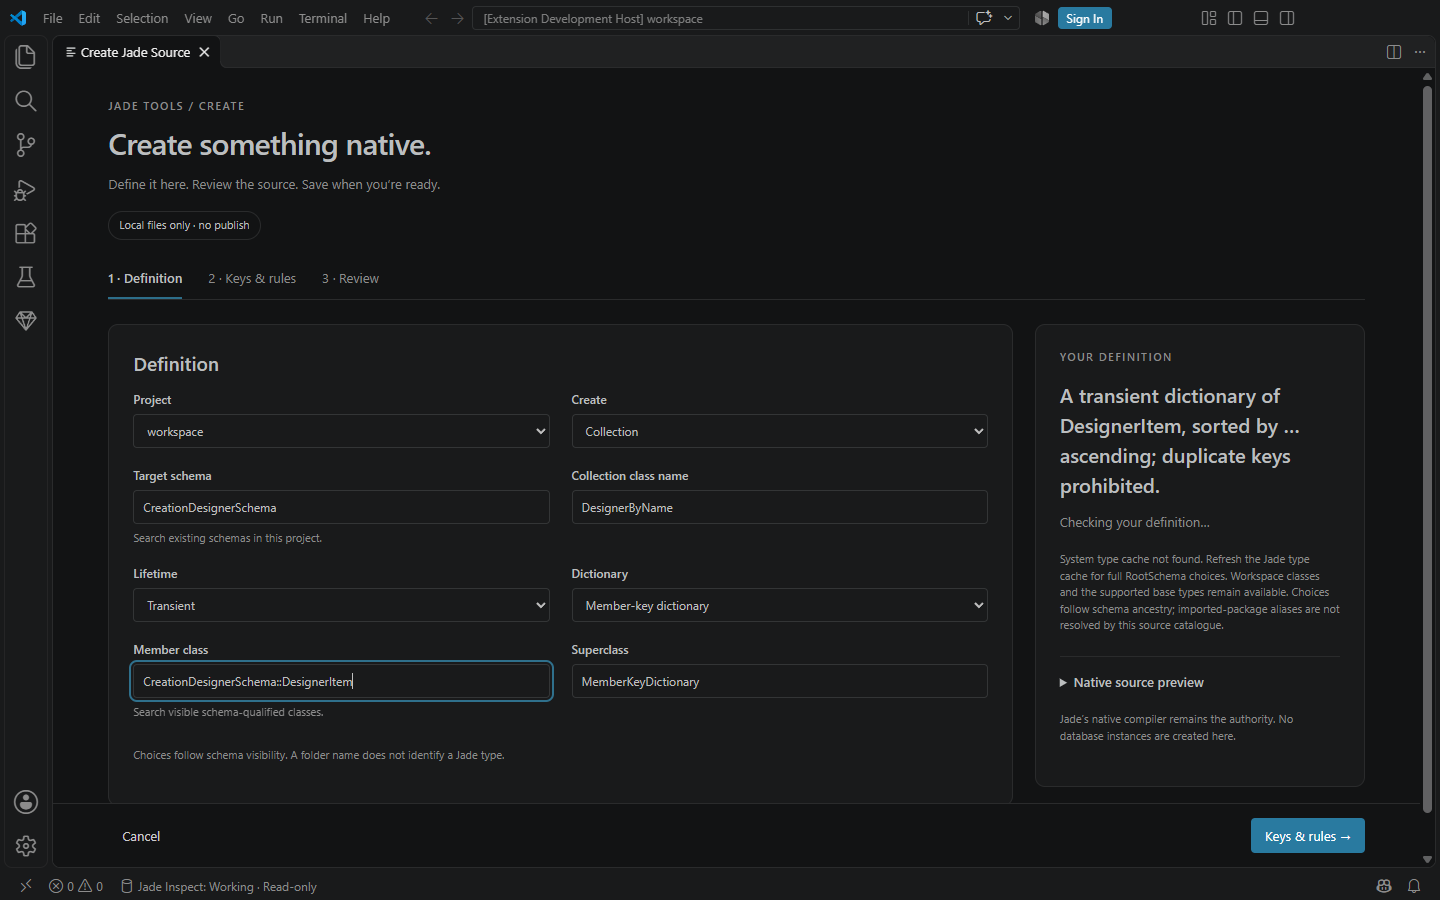
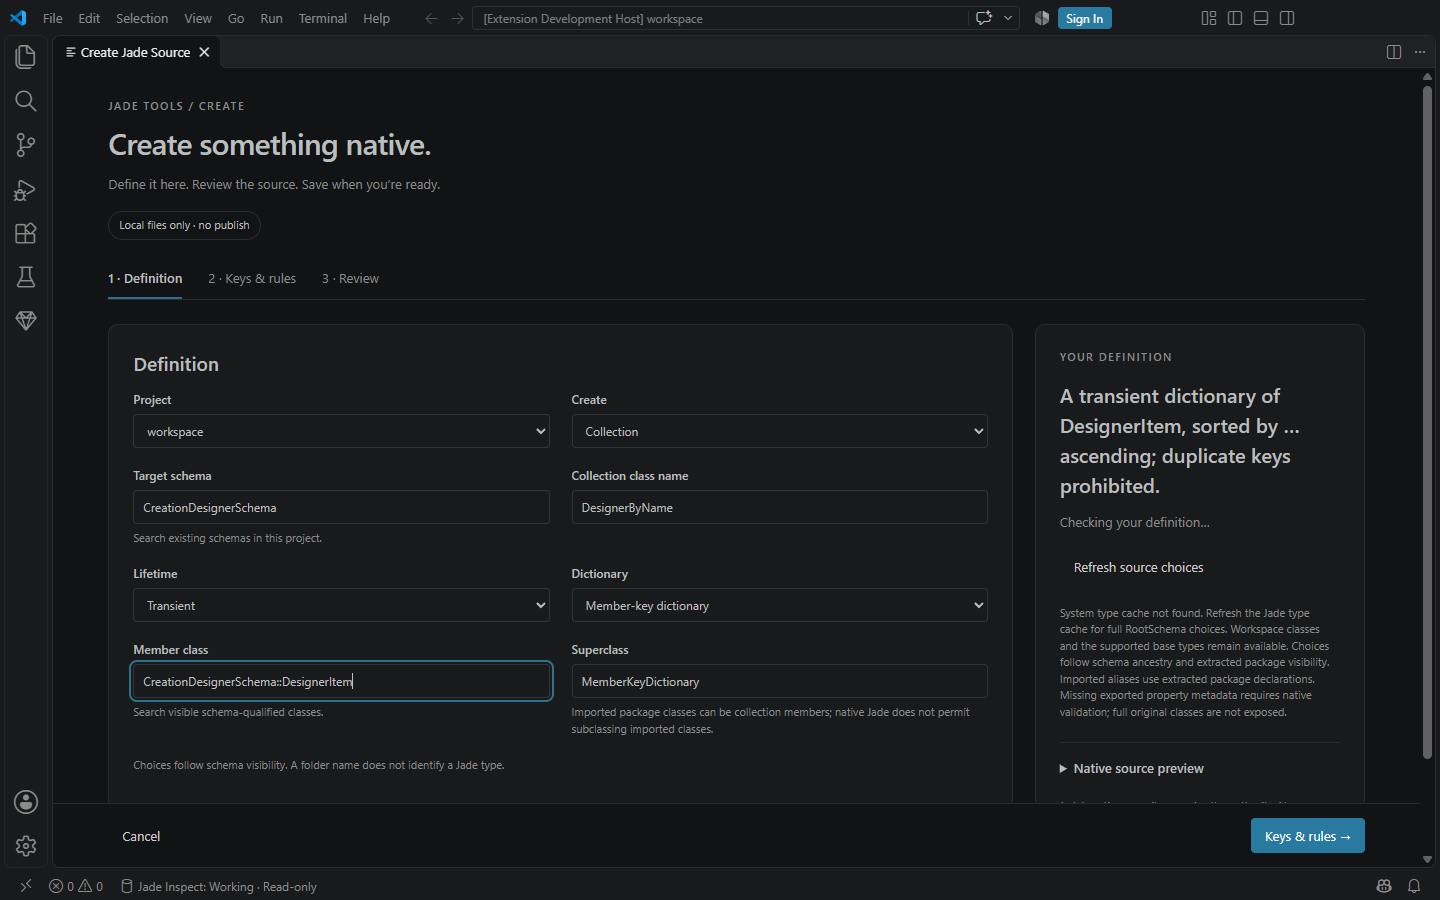
test: prove imported collection creation in native Jade and VS Code

diff --git a/tests/creation-integration/creation-integration_imports_native_tests.test.js b/tests/creation-integration/creation-integration_imports_native_tests.test.js
@@ -1,0 +1,93 @@
+'use strict';
+const test=require('node:test'),assert=require('node:assert/strict'),fs=require('node:fs'),path=require('node:path'),crypto=require('node:crypto');
+const {HostTestArtifacts}=require('../../scripts/HostTestArtifacts.cjs');
+const {createCreationModel}=require('../../extension/src/creation-model');
+const {writeCreation}=require('../../extension/src/creation-files');
+const {scanProject}=require('../../extension/src/native-project');
+const {service}=require('../../test/cli-integration-fixture');
+// Grammar comes from Jade Software's published package extracts. The opt-in
+// run verifies it on the installed native runtime and retains fresh extracts.
+test('native packages preserve alias identity, exported properties and inherited import visibility',{skip:process.env.JADE_CREATION_NATIVE!=='1',timeout:600000},async()=>{
+ const source=process.env.JADE_CREATION_NATIVE_SOURCE,ini=process.env.JADE_CREATION_NATIVE_INI;assert.ok(source&&ini,'Explicit Source backup paths required; this proof never publishes.');
+ const base=path.resolve(__dirname,'../..'),artifacts=new HostTestArtifacts({evidencePath:path.join(base,'evidence/creation-imports-native.json')});
+ await artifacts.run(async stage=>{
+  const root=path.join(stage,'workspace');fs.mkdirSync(root);const runtime=path.join(stage,'extension/vendor/jade-tools-cli');fs.mkdirSync(path.dirname(runtime),{recursive:true});fs.cpSync(process.env.JADE_CREATION_NATIVE_CLI_DIST||path.join(base,'extension/vendor/jade-tools-cli'),runtime,{recursive:true});const entry=path.join(runtime,'jade-cli.exe');const manifest=JSON.parse(fs.readFileSync(path.join(runtime,'distribution.json'),'utf8'));assert.equal(manifest.runtime,'native-cpp');assert.equal(manifest.executableSha256,crypto.createHash('sha256').update(fs.readFileSync(entry)).digest('hex'));artifacts.nativeSha256=crypto.createHash('sha256').update(fs.readFileSync(entry)).digest('hex');
+  const suffix=Date.now().toString(36),exporterA='ImportExporterA'+suffix,exporterB='ImportExporterB'+suffix,consumer='ImportConsumer'+suffix,child='ImportChild'+suffix,probe='ImportProbe'+suffix,importOnly='ImportOnly'+suffix;
+  const folder=name=>path.join(root,'schemas',name),types=name=>path.join(folder(name),'types'),head=name=>`jadeVersionNumber "25.0.02";\nschemaDefinition\n${name} subschemaOf ${name===child?consumer:'RootSchema'} partialDefinition;\n`;
+  const cls=(schema,name,parent,definition='',sources='',membership='',keys='')=>head(schema)+`typeHeaders\n\t${name} subclassOf ${parent} transient;\n`+(membership?`membershipDefinitions\n\t${name} of ${membership};\n`:'')+`typeDefinitions\n\t${name} completeDefinition\n\t(\n${definition}\n\t)\n`+(keys?`memberKeyDefinitions\n\t${name} completeDefinition\n\t(\n\t ${keys};\n\t)\n`:'')+`databaseDefinitions\ntypeSources\n`+sources;
+  const put=(schema,name,text)=>{const file=path.join(types(schema),name+'.cls');fs.writeFileSync(file,text);return file;};
+  for(const name of [exporterA,exporterB,consumer,child,probe,importOnly]){const model=createCreationModel(await scanProject(root));writeCreation(root,model.preview({type:'schema',name,parent:name===child?consumer:'RootSchema',version:'25.0.02'}));}
+  for(const schema of [exporterA,exporterB,consumer,child,probe,importOnly]){
+   const packageApp=[exporterA,exporterB].includes(schema)?'<JadeExportedPackage name="SharedTools"><application name="'+schema+'" /></JadeExportedPackage>':'';
+   fs.writeFileSync(path.join(folder(schema),'applications',schema+'.ddx'),'<?xml version="1.0" encoding="UTF-8"?>\r\n<schema name="'+schema+'" JadeVersionNumber="25.0.02" CompleteDefinition="true">\r\n<Application name="'+schema+'"><applicationType>G</applicationType><defaultApp>true</defaultApp><name>'+schema+'</name></Application>'+packageApp+'</schema>\r\n');
+  }
+  for(const schema of [exporterA,exporterB]){
+   put(schema,'Thing',cls(schema,'Thing','Object','attributeDefinitions\n name: String[50];\n secret: String[50];'));
+   const packages=path.join(folder(schema),'packages');fs.mkdirSync(packages);
+   fs.writeFileSync(path.join(packages,'exportedPackageDefinitions.sec'),'exportedPackageDefinitions\n\tSharedTools\n\t(\n\texportedClassDefinitions\n\t\tThing transientAllowed, transient\n\t\t(\n\t\texportedPropertyDefinitions\n\t\t\tname;\n\t\t)\n\t)\n');
+  }
+  fs.mkdirSync(path.join(folder(consumer),'packages'));
+  fs.writeFileSync(path.join(folder(consumer),'packages/importedPackageDefinitions.sec'),`importedPackageDefinitions\n\tCatalogA is ${exporterA}::SharedTools\n\t(\n\timportedClassDefinitions\n\t\tThing\n\t)\n\tCatalogB is ${exporterB}::SharedTools\n\t(\n\timportedClassDefinitions\n\t\tThing\n\t)\n`);
+  fs.mkdirSync(path.join(folder(importOnly),'packages'));fs.writeFileSync(path.join(folder(importOnly),'packages/importedPackageDefinitions.sec'),`importedPackageDefinitions\n\tOnlyPackage is ${exporterA}::SharedTools\n\t(\n\timportedClassDefinitions\n\t\tThing\n\t)\n`);
+  put(consumer,'Thing',cls(consumer,'Thing','Object','attributeDefinitions\n name: String[50];\n localOnly: Integer;'));
+  put(consumer,'LocalThingChild',cls(consumer,'LocalThingChild','Thing'));
+  const creation=createCreationModel(await scanProject(root));for(const [schema,name,alias]of [[consumer,'ImportedByName','CatalogA'],[consumer,'OtherImportedByName','CatalogB'],[child,'ChildImportedByName','CatalogA']]){const membership=consumer+'::'+alias+'::Thing';assert.deepEqual(creation.keyChoices({schema,membership}).items.map(property=>property.name),['name']);writeCreation(root,creation.preview({type:'collection',schema,name,kind:'member',membership,lifetime:'transient',keys:[{name:'name'}]}));}
+  const inheritedBody=`inheritedAlias() unitTest;
+vars
+ value: CatalogA::Thing;
+ dictionary: ChildImportedByName;
+begin
+ create value transient; create dictionary transient;
+ value.name := "inherited alias"; dictionary.add(value);
+ assertEquals(value,dictionary.getAtKey("inherited alias"));
+epilog
+ delete dictionary; delete value;
+end;`;
+  const childProgram=put(child,'InheritedPackageTests',cls(child,'InheritedPackageTests','JadeTestCase','jadeMethodDefinitions\n inheritedAlias() unitTest;',`InheritedPackageTests (\njadeMethodSources\ninheritedAlias\n{\n${inheritedBody}\n}\n)\n`));
+  const body=`packageAliases() unitTest;
+vars
+ a: CatalogA::Thing;
+ b: CatalogB::Thing;
+ local: Thing;
+ localChild: LocalThingChild;
+ first: ImportedByName;
+ second: OtherImportedByName;
+begin
+ create a transient; create b transient; create local transient; create localChild transient;
+ create first transient; create second transient;
+ a.name := "from A"; b.name := "from B"; local.name := "local"; local.localOnly := 42;
+ first.add(a); second.add(b);
+ assertEquals(a,first.getAtKey("from A")); assertEquals(b,second.getAtKey("from B"));
+ assertEquals("from A",a.name); assertEquals("from B",b.name); assertEquals(42,local.localOnly);
+epilog
+ delete second; delete first; delete localChild; delete local; delete b; delete a;
+end;`;
+  const program=put(consumer,'ImportedCollectionTests',cls(consumer,'ImportedCollectionTests','JadeTestCase','jadeMethodDefinitions\n packageAliases() unitTest;',`ImportedCollectionTests (\njadeMethodSources\npackageAliases\n{\n${body}\n}\n)\n`));
+  const inputSnapshot=new Map();function snapshot(dir){for(const item of fs.readdirSync(dir,{withFileTypes:true})){const file=path.join(dir,item.name);if(item.isDirectory())snapshot(file);else inputSnapshot.set(file,fs.readFileSync(file));}}snapshot(root);const project=await scanProject(root),config={installPath:process.env.JADE_CREATION_NATIVE_INSTALL||'C:/Jade2025',databasePath:source,iniPath:ini,server:'singleUser',workspaceRoots:[root],storagePath:path.join(stage,'state'),schema:consumer,program,files:project.schemas.flatMap(s=>s.classes.map(c=>c.file)),classFile:true,sourceProperties:true,methods:['packageAliases'],testDependencyScope:'static',timeoutMilliseconds:120000},client=service(entry,path.join(stage,'broker')),proof={cliVersion:manifest.packageVersion,cliSha256:artifacts.nativeSha256,candidateDistribution:process.env.JADE_CREATION_NATIVE_CLI_DIST||null,packageSecNewlines:'LF',jadeVersion:'25.0.02',sourcePublished:false,schemas:{exporterA,exporterB,consumer,child},results:[]};
+  const record=(name,result)=>{proof.results.push({name,...result});fs.writeFileSync(path.join(stage,'host-report.json'),JSON.stringify(proof,null,2));console.log(name+': '+result.code+' '+result.passed);};
+  try{
+   const delayed=[path.join(types(consumer),'ImportedByName.cls'),path.join(types(consumer),'OtherImportedByName.cls'),path.join(types(consumer),'ImportedCollectionTests.cls'),path.join(types(child),'ChildImportedByName.cls'),childProgram].map(file=>({file,text:fs.readFileSync(file,'utf8')}));for(const value of delayed)fs.unlinkSync(value.file);
+   const baselineProject=await scanProject(root),baseline=await client.request('build',{...config,program:path.join(types(consumer),'Thing.cls'),files:baselineProject.schemas.flatMap(s=>s.classes.map(c=>c.file)),projectBuild:true});record('native-package-baseline',baseline);assert.equal(baseline.passed,true,JSON.stringify(baseline));
+   const baselineTarget=(await client.request('working.location',config)).working;await client.request('disconnect',{});const baselineEvidence=path.join(base,'evidence/import-native');fs.mkdirSync(baselineEvidence,{recursive:true});
+   const assembled=[];function inspectAssembly(directory){if(!fs.existsSync(directory))return;for(const entry of fs.readdirSync(directory,{withFileTypes:true})){const file=path.join(directory,entry.name);if(entry.isDirectory())inspectAssembly(file);else if(/\.(scm|ddx)$/i.test(file)&&fs.statSync(file).size<131072)assembled.push({file:path.relative(baselineTarget.assemblyRoot,file),text:require('../../extension/src/native-project').decode(fs.readFileSync(file))});}}inspectAssembly(baselineTarget.assemblyRoot);fs.writeFileSync(path.join(baselineEvidence,'assembled.json'),JSON.stringify(assembled,null,2));
+   const packageMeta=await client.request('workspace.run',{...config,schema:probe,application:probe,program:path.join(types(consumer),'Thing.cls'),files:baselineProject.schemas.flatMap(s=>s.classes.map(c=>c.file))},{source:path.join(root,'package-metadata.jade'),sourceText:`vars\n provider:Schema; packages:Object; package:Object; application:Object; applications:Object;\nbegin\n provider := rootSchema.getSchema("${exporterA}");\n write provider.getName();\n packages := provider.getPropertyValue("exportedPackages").Object;\n package := packages.sendMsg("first").Object;\n write package.getPropertyValue("name");\n application := package.getPropertyValue("application").Object;\n write application = null;\n if application <> null then write application.getPropertyValue("name"); endif;\n applications := provider.getPropertyValue("_applications").Object;\n write applications.sendMsg("size");\n write provider.getLocalPackage("SharedTools") = package;\nend;`});record('native-package-application-metadata',packageMeta);assert.equal(packageMeta.passed,true);assert.ok(packageMeta.report.output.includes('\nfalse\n'+exporterA+'\n1\n'),'Native package application association required');await client.request('disconnect',{});
+   for(const name of [exporterA,exporterB,consumer]){const destination=path.join(stage,'baseline-'+name);fs.mkdirSync(destination);const extracted=await client.request('native.run',{...config,databasePath:baselineTarget.databasePath,iniPath:baselineTarget.iniPath},{executable:path.join(config.installPath,'bin/jadclient.exe'),args:['path='+baselineTarget.databasePath,'ini='+baselineTarget.iniPath,'server=singleUser','schema=JadeSchema','app=JadeBatchExtract','startAppParameters','Single',path.join(destination,'schema.scm'),path.join(destination,'schema.ddx'),name,'<utf8Encoding>'],options:{timeoutMilliseconds:60000,cwd:stage}});record(name+'-baseline-extract',extracted);if(extracted.passed){fs.copyFileSync(path.join(destination,'schema.scm'),path.join(baselineEvidence,name+'-baseline.scm'));if(fs.existsSync(path.join(destination,'schema.ddx')))fs.copyFileSync(path.join(destination,'schema.ddx'),path.join(baselineEvidence,name+'-baseline.ddx'));}}
+   for(const value of delayed)fs.writeFileSync(value.file,value.text);
+   const built=await client.request('build',{...config,projectBuild:true});record('native-package-source',built);assert.equal(built.passed,true,JSON.stringify(built));
+   const ran=await client.request('test',config);if(ran.report?.logFile&&fs.existsSync(ran.report.logFile))proof.nativeTestLog=require('../../extension/src/native-project').decode(fs.readFileSync(ran.report.logFile)).slice(-32000);record('native-package-alias-runtime',ran);assert.equal(ran.passed,true,JSON.stringify(ran));assert.equal(ran.report.tests_completed,true);
+   const inherited=await client.request('test',{...config,schema:child,program:childProgram,methods:['inheritedAlias']});record('native-inherited-alias-runtime',inherited);assert.equal(inherited.passed,true,JSON.stringify(inherited));assert.equal(inherited.report.tests_completed,true);
+   for(const negative of [{schema:importOnly,name:'ImportedSubclass',text:cls(importOnly,'ImportedSubclass','Thing')},{schema:consumer,name:'HiddenImportedProperty',text:cls(consumer,'HiddenImportedProperty','Object','jadeMethodDefinitions\n hidden() : String;',`HiddenImportedProperty (\njadeMethodSources\nhidden\n{\nhidden() : String;\nvars\n value: CatalogA::Thing;\nbegin\n return value.secret;\nend;\n}\n)\n`)}]){
+    const file=put(negative.schema,negative.name,negative.text),rejected=await client.request('build',{...config,schema:negative.schema,program:file,projectBuild:true});record(negative.name,rejected);assert.equal(rejected.passed,false,JSON.stringify(rejected));assert.ok(rejected.report.diagnostics.some(d=>d.compiler_error===(negative.name==='ImportedSubclass'?6022:6026)),JSON.stringify(rejected));fs.unlinkSync(file);
+   }
+   const recovered=await client.request('build',{...config,projectBuild:true});assert.equal(recovered.passed,true,JSON.stringify(recovered));
+   const target=(await client.request('working.location',config)).working;await client.request('disconnect',{});
+   const evidence=path.join(base,'evidence/import-native');fs.mkdirSync(evidence,{recursive:true});
+   for(const name of [exporterA,exporterB,consumer,child,probe,importOnly]){
+    const destination=path.join(stage,'extract-'+name);fs.mkdirSync(destination);
+    const extracted=await client.request('native.run',{...config,databasePath:target.databasePath,iniPath:target.iniPath},{executable:path.join(config.installPath,'bin/jadclient.exe'),args:['path='+target.databasePath,'ini='+target.iniPath,'server=singleUser','schema=JadeSchema','app=JadeBatchExtract','startAppParameters','Single',path.join(destination,'schema.scm'),path.join(destination,'schema.ddx'),name,'<utf8Encoding>'],options:{timeoutMilliseconds:60000,cwd:stage}});
+    assert.equal(extracted.passed,true,JSON.stringify(extracted));fs.copyFileSync(path.join(destination,'schema.scm'),path.join(evidence,name+'.scm'));
+   }
+   for(const [file,bytes]of inputSnapshot)assert.deepEqual(fs.readFileSync(file),bytes,'Input preserved '+file);proof.inputBytesPreserved=true;proof.passed=true;proof.aliasesAndLocalSameName=true;proof.exportedPropertyKey=true;proof.inheritedImport=true;proof.inheritedAliasExecuted=true;proof.modelGeneratedImportedDictionaries=true;proof.importedSubclassRejected=true;proof.unexportedPropertyRejected=true;fs.writeFileSync(path.join(stage,'host-report.json'),JSON.stringify(proof,null,2));
+  }finally{try{await client.request('shutdown',{});}finally{await client.close();}}
+ });
+});

diff --git a/test/vscode-creation-smoke.js b/test/vscode-creation-smoke.js
@@ -8,6 +8,7 @@ async function run(){
   const file=path.join(root,'schemas/CreationDesignerSchema/types/DesignerItem.cls');
   fs.writeFileSync(file,'jadeVersionNumber "25.0.02";\nschemaDefinition\nCreationDesignerSchema subschemaOf RootSchema partialDefinition;\ntypeHeaders\nDesignerItem subclassOf Object transient;\ntypeDefinitions\nDesignerItem completeDefinition\n(\nattributeDefinitions\nname: String[50];\nrank: Integer;\n)\ntypeSources\n');
   for(let index=0;index<120;index++){const name='PagingItem'+String(index).padStart(3,'0');fs.writeFileSync(path.join(path.dirname(file),name+'.cls'),`jadeVersionNumber "25.0.02";\nschemaDefinition\nCreationDesignerSchema subschemaOf RootSchema partialDefinition;\ntypeHeaders\n${name} subclassOf Object transient;\ntypeDefinitions\n${name} completeDefinition\n(\n)\ntypeSources\n`);}
+  const importSchemas={};for(const fixture of ['ImportExporterA','ImportExporterB','ImportConsumer','ImportChild']){const text=fs.readFileSync(path.join(__dirname,'fixtures/creation-imports',fixture+'.scm'),'utf8'),name=/schemaDefinition\s+(\w+)\s+subschemaOf/.exec(text)[1];importSchemas[fixture]=name;fs.writeFileSync(path.join(root,'schemas',name+'.scm'),text);fs.mkdirSync(path.join(root,'schemas',name,'types'),{recursive:true});if(fixture!=='ImportChild'){const properties=fixture==='ImportConsumer'?'name: String[50];\nlocalOnly: Integer;':'name: String[50];\nsecret: String[50];';fs.writeFileSync(path.join(root,'schemas',name,'types/Thing.cls'),`jadeVersionNumber "25.0.02";\nschemaDefinition\n${name} subschemaOf RootSchema partialDefinition;\ntypeHeaders\nThing subclassOf Object transient;\ntypeDefinitions\nThing completeDefinition\n(\nattributeDefinitions\n${properties}\n)\ntypeSources\n`);}}
   const before=fs.readFileSync(file,'utf8');
   const commands=await vscode.commands.getCommands(true);assert.ok(commands.includes('jadeNative.createDefinition'),'Unified designer command must be registered.');
   if(commands.includes('workbench.action.closeAuxiliaryBar'))await vscode.commands.executeCommand('workbench.action.closeAuxiliaryBar');
@@ -49,10 +50,18 @@ async function run(){
     await vscode.commands.executeCommand('workbench.action.previousEditor');
     await execute(`$('back').click();change('kind','collection');change('dictionary','external');input('name','NewSchemaDictionary');$('member').focus();input('member','NewSchemaMember');await wait(()=>!$('member-results').hidden&&[...$('member-results').querySelectorAll('button')].some(b=>b.textContent==='DesignerNewSchema::NewSchemaMember'));[...$('member-results').querySelectorAll('button')].find(b=>b.textContent==='DesignerNewSchema::NewSchemaMember').click();$('next').click();input('key-0','lookup');if($('key-1'))document.querySelector('[aria-label="Remove key 2"]').click();$('next').click();await wait(()=>!$('save').disabled);$('save').click();await wait(()=>$('status').textContent.startsWith('Saved '));return true;`);
     assert.match(fs.readFileSync(path.join(root,'schemas/DesignerNewSchema/types/NewSchemaDictionary.cls'),'utf8'),/NewSchemaDictionary of NewSchemaMember;/);
+    await vscode.commands.executeCommand('workbench.action.previousEditor');
+    await execute(`$('back').click();$('back').click();$('schema').focus();input('schema',${JSON.stringify(importSchemas.ImportConsumer)});await wait(()=>!$('schema-results').hidden&&[...$('schema-results').querySelectorAll('button')].some(b=>b.textContent===${JSON.stringify(importSchemas.ImportConsumer)}));[...$('schema-results').querySelectorAll('button')].find(b=>b.textContent===${JSON.stringify(importSchemas.ImportConsumer)}).click();change('dictionary','member');input('name','HostImportedByName');$('member').focus();input('member','Thing');await wait(()=>!$('member-results').hidden&&$('member-results').textContent.includes('CatalogA::Thing')&&$('member-results').textContent.includes('CatalogB::Thing'));const rows=[...$('member-results').querySelectorAll('[role="option"]')];if(!rows.some(b=>b.textContent===${JSON.stringify(importSchemas.ImportConsumer+'::Thing')}))throw Error('Local same-name Thing missing');rows.find(b=>b.textContent.includes('CatalogA::Thing')).click();$('next').click();$('key-0').focus();input('key-0','name');await wait(()=>!$('key-results-0').hidden&&[...$('key-results-0').querySelectorAll('button')].some(b=>b.textContent==='name'));[...$('key-results-0').querySelectorAll('button')].find(b=>b.textContent==='name').click();$('back').click();await wait(()=>$('status').textContent.startsWith('Ready to save'));$('member').focus();input('member','Thing');await wait(()=>!$('member-results').hidden&&$('member-results').textContent.includes('CatalogB::Thing'));return true;`);
+    await designer.screenshot(path.join(process.env.JADE_CREATION_SCREENSHOTS,'unified-creation-import-choices.png'));
+    await execute(`const rows=[...$('member-results').querySelectorAll('[role="option"]')];const imported=rows.find(b=>b.textContent.includes('CatalogA::Thing'));if(!imported.querySelector('.choice-context')?.textContent.includes('Exported by'))throw Error('Import origin context missing');imported.click();await wait(()=>$('member').value.includes('CatalogA::Thing'));$('next').click();$('key-0').focus();input('key-0','');await wait(()=>!$('key-results-0').hidden);const keys=[...$('key-results-0').querySelectorAll('[role="option"]')].map(b=>b.textContent);if(!keys.includes('name')||keys.includes('secret')||keys.includes('localOnly'))throw Error('Imported export whitelist leaked fields: '+keys.join(','));[...$('key-results-0').querySelectorAll('button')].find(b=>b.textContent==='name').click();$('next').click();await wait(()=>!$('save').disabled);return true;`);
+    await designer.screenshot(path.join(process.env.JADE_CREATION_SCREENSHOTS,'unified-creation-imports.png'));
+    await execute(`$('save').click();await wait(()=>$('status').textContent.startsWith('Saved '));return true;`);
+    assert.match(fs.readFileSync(path.join(root,'schemas',importSchemas.ImportConsumer,'types/HostImportedByName.cls'),'utf8'),/HostImportedByName of CatalogA::Thing;/);
+
    });
   }
   assert.equal(fs.readFileSync(file,'utf8'),before);
-  fs.writeFileSync(report,JSON.stringify({passed:true,version:ext.packageJSON.version,commandRegistered:true,webviewRendered:true,existingSourceUnchanged:true,noDatabase:true,actualWebviewFlows:!!process.env.JADE_CREATION_DEBUG_PORT,memberAutocomplete:true,keyboardSelection:true,boundedMemberPaging:true,propertyAutocomplete:true,keyOrdering:true,backPreservesChoices:true,lightAndHighContrast:true,reviewedDictionarySave:true,reviewedClassSave:true,reviewedSchemaSave:true,enterDoesNotSaveBeforeReview:true,sameViewSchemaClassDictionary:true},null,2));
+  fs.writeFileSync(report,JSON.stringify({passed:true,version:ext.packageJSON.version,commandRegistered:true,webviewRendered:true,existingSourceUnchanged:true,noDatabase:true,actualWebviewFlows:!!process.env.JADE_CREATION_DEBUG_PORT,memberAutocomplete:true,keyboardSelection:true,boundedMemberPaging:true,propertyAutocomplete:true,keyOrdering:true,backPreservesChoices:true,lightAndHighContrast:true,reviewedDictionarySave:true,reviewedClassSave:true,reviewedSchemaSave:true,enterDoesNotSaveBeforeReview:true,sameViewSchemaClassDictionary:true,importedAliasesAndLocalCollision:true,importedWhitelist:true,importedReviewedSave:true},null,2));
  }catch(error){fs.writeFileSync(report,JSON.stringify({passed:false,error:error.stack},null,2));throw error;}
 }
 module.exports={run};
